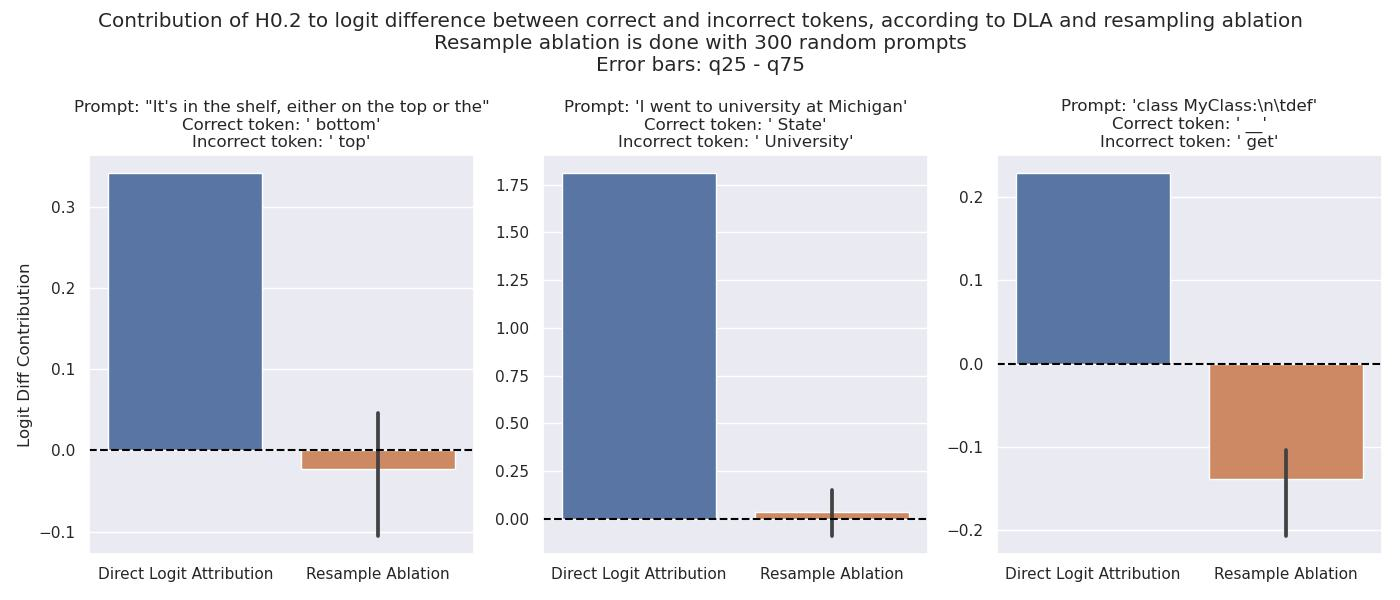
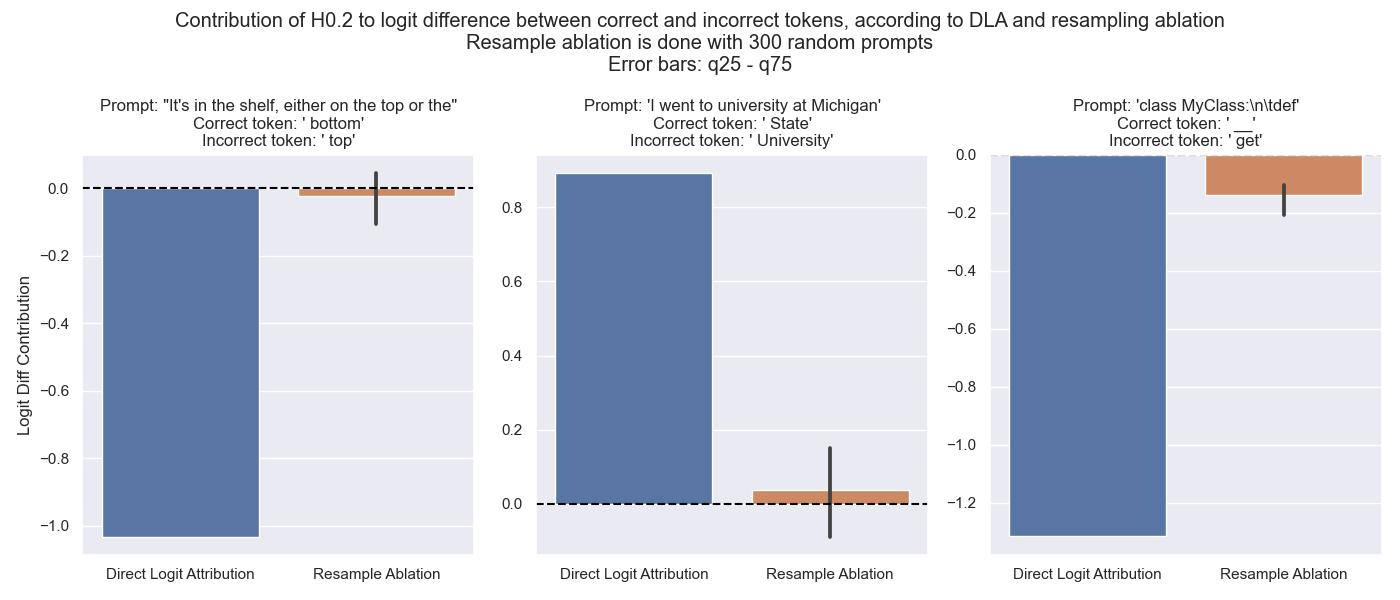
update fig9 and implement modified DLA(fig9new)

diff --git a/figure_recreation/fig9new_ori_and_modified_DLA_barplots.py b/figure_recreation/fig9new_ori_and_modified_DLA_barplots.py
@@ -1,0 +1,176 @@
+# %%
+# Gross code to allow for importing from parent directory
+import os, sys
+from pathlib import Path
+
+parent_path = str(Path(os.getcwd()).parent)
+if parent_path not in sys.path:
+    sys.path.append(parent_path)
+
+# Imports
+import gc
+from functools import partial
+
+import torch
+import numpy as np
+import pandas as pd
+import einops
+
+from typing import Tuple
+from jaxtyping import Float
+from torch import Tensor
+
+from transformer_lens import HookedTransformer
+from transformer_lens.utils import get_act_name
+from load_data import get_prompts_t
+from jamesd_utils import get_logit_diff_function, projection_ratio
+
+import matplotlib.pyplot as plt
+import seaborn as sns
+
+
+# Global settings and variables
+sns.set()
+torch.set_grad_enabled(False)
+device = "cpu"
+
+FIG_FILEPATH = "figs/fig9new_DLA_barplots.jpg"
+
+# Transformer Lens model names:
+# https://github.com/neelnanda-io/TransformerLens/blob/3cd943628b5c415585c8ef100f65989f6adc7f75/transformer_lens/loading_from_pretrained.py#L127
+MODEL_NAME = "gelu-4l"
+
+
+# %%
+model = HookedTransformer.from_pretrained(MODEL_NAME, device=device)
+model.cfg.use_attn_result = True
+
+# %%
+examples = [
+    {
+        "text": "It's in the shelf, either on the top or the",
+        "correct": " bottom",
+        "incorrect": " top",
+    },
+    {
+        "text": "I went to university at Michigan",
+        "correct": " State",
+        "incorrect": " University",
+    },
+    {
+        "text": "class MyClass:\n\tdef",
+        "correct": " __",
+        "incorrect": " get",
+    },
+]
+
+# %%
+def get_DLA_logit_diff_attn_head(example, model, layer, head, modified=False):
+    """
+    Returns the logit difference between the correct and incorrect token, when
+    apply direct logit attribution (DLA) to an attention head.
+
+    when modified==True, project the final resid post onto the attn out before DLA
+    """
+    token_ids = model.to_tokens(example["text"])
+    correct_token_id = model.to_single_token(example["correct"])
+    incorrect_token_id = model.to_single_token(example["incorrect"])
+
+    calc_logit_diff = get_logit_diff_function(
+        model,
+        correct_token_id,
+        incorrect_token_id,
+    )
+
+    attn_layer_name = get_act_name("result", layer)
+    final_resid_post_name = get_act_name("resid_post", model.cfg.n_layers - 1)
+
+    _, cache = model.run_with_cache(
+        token_ids,
+        names_filter=lambda name: any([
+            name == "ln_final.hook_scale",
+            name == attn_layer_name,
+            name == final_resid_post_name, 
+        ]),
+    )
+
+    # Take only the final position
+    attn_head_out = cache[attn_layer_name][0, -1, head, :]  # (dmodel)
+    final_resid_post = cache[final_resid_post_name][0, -1, :]  # (dmodel)
+    scale = cache["ln_final.hook_scale"][0, -1]
+
+    # Project the final resid post onto the attn out if modified==True
+    if modified:
+        proj_ratio = projection_ratio(final_resid_post, attn_head_out)
+        print(proj_ratio)
+        attn_head_out = proj_ratio * attn_head_out
+
+
+    # Apply final layernorm to the attn head output
+    attn_head_out_normed = (
+        (attn_head_out - attn_head_out.mean(dim=-1, keepdim=True)) / scale 
+    )
+
+    return calc_logit_diff(attn_head_out_normed)
+
+# %%
+logit_diffs_dla = []
+logit_diffs_dla_modified = []
+
+layer, head = 0, 2
+for example in examples:
+    # Contribution to logit diff of H0.2, according to DLA
+    logit_diffs_dla.append(
+        get_DLA_logit_diff_attn_head(example, model, layer, head, modified=False).item()
+    )
+    logit_diffs_dla_modified.append(
+        get_DLA_logit_diff_attn_head(example, model, layer, head, modified=True).item()
+    )
+
+# %%
+df = pd.DataFrame()
+df["contribution"] = logit_diffs_dla
+df["method"] = "DLA"
+df["example"] = range(len(examples))
+
+df2 = pd.DataFrame()
+df2["contribution"] = logit_diffs_dla_modified
+df2["method"] = "DLA modified"
+df2["example"] = range(len(examples))
+df = pd.concat([df, df2])
+
+#%%
+fig, ax = plt.subplots(1, 3, figsize=(14, 6))
+
+for i in range(len(examples)):
+    sns.barplot(
+        data=df.query(f"example == {i}"),
+        x="method",
+        y="contribution",
+        ax=ax[i]
+    )
+    ax[i].axhline(0, color="black", linestyle="--")
+    ax[i].set_xlabel("")
+    if i == 0:
+        ax[i].set_ylabel("Logit Diff Contribution")
+    else:
+        ax[i].set_ylabel("")
+    ax[i].set_xticklabels(["DLA", "Modified DLA"])
+    ax[i].set_title(
+        f"Prompt: {repr(examples[i]['text'])}\n"
+        f"Correct token: {repr(examples[i]['correct'])}\n"
+        f"Incorrect token: {repr(examples[i]['incorrect'])}"
+    )
+
+fig.suptitle(
+    f"Contribution of H0.2 to logit difference between correct and incorrect tokens\n"
+    f"according to DLA and modified DLA (project final resid onto H0.2 before ln+unemb)\n"
+)
+fig.tight_layout()
+
+#%%
+# Save figure
+fig.savefig(FIG_FILEPATH)
+print(f"Saved figure to {FIG_FILEPATH}")
+
+# %%

diff --git a/figure_recreation/fig9_DLA_barplots.py b/figure_recreation/fig9_DLA_barplots.py
@@ -109,7 +109,7 @@ def get_DLA_logit_diff_attn_head(example, model, layer, head):
 
     # Apply final layernorm to the attn head output
     attn_head_out_normed = (
-        attn_head_out - attn_head_out.mean(dim=-1, keepdim=True) / scale
+        (attn_head_out - attn_head_out.mean(dim=-1, keepdim=True)) / scale
     )
 
     return calc_logit_diff(attn_head_out_normed)
@@ -238,3 +238,5 @@ fig.tight_layout()
 # Save figure
 fig.savefig(FIG_FILEPATH)
 print(f"Saved figure to {FIG_FILEPATH}")
+
+# %%
